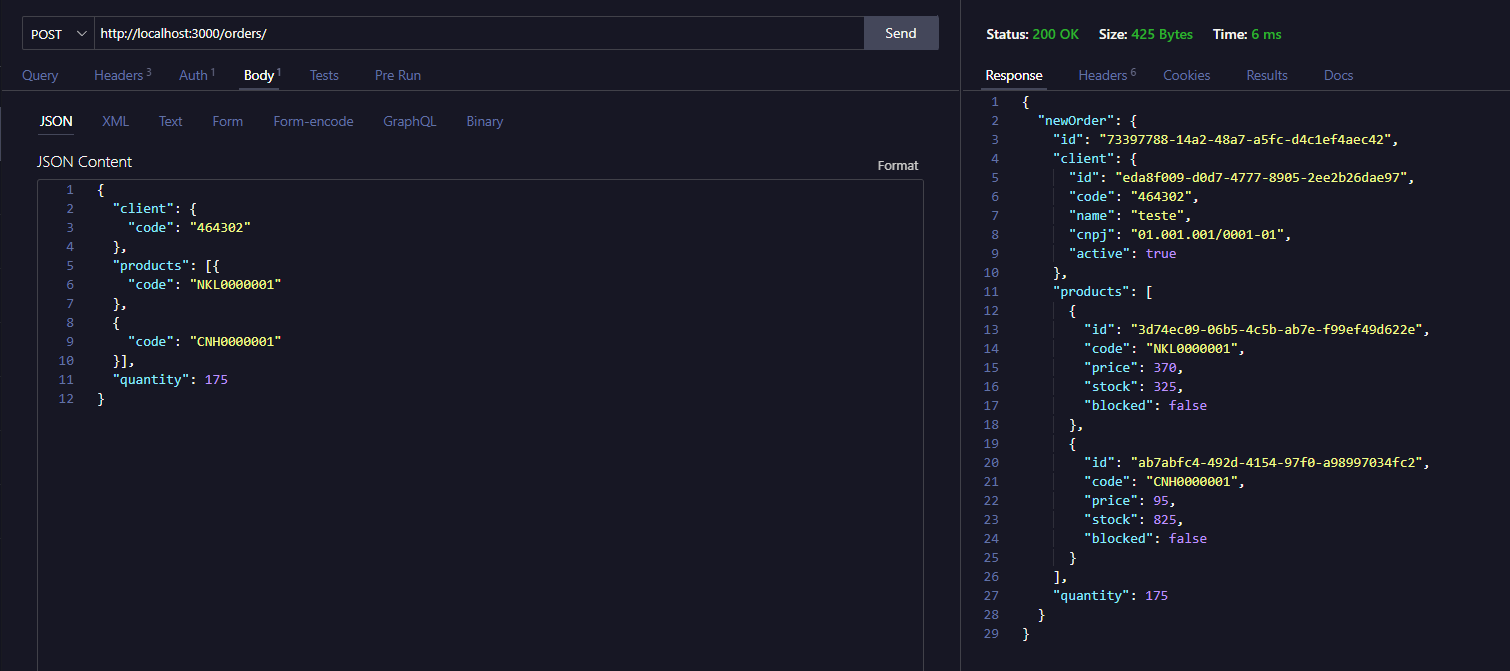
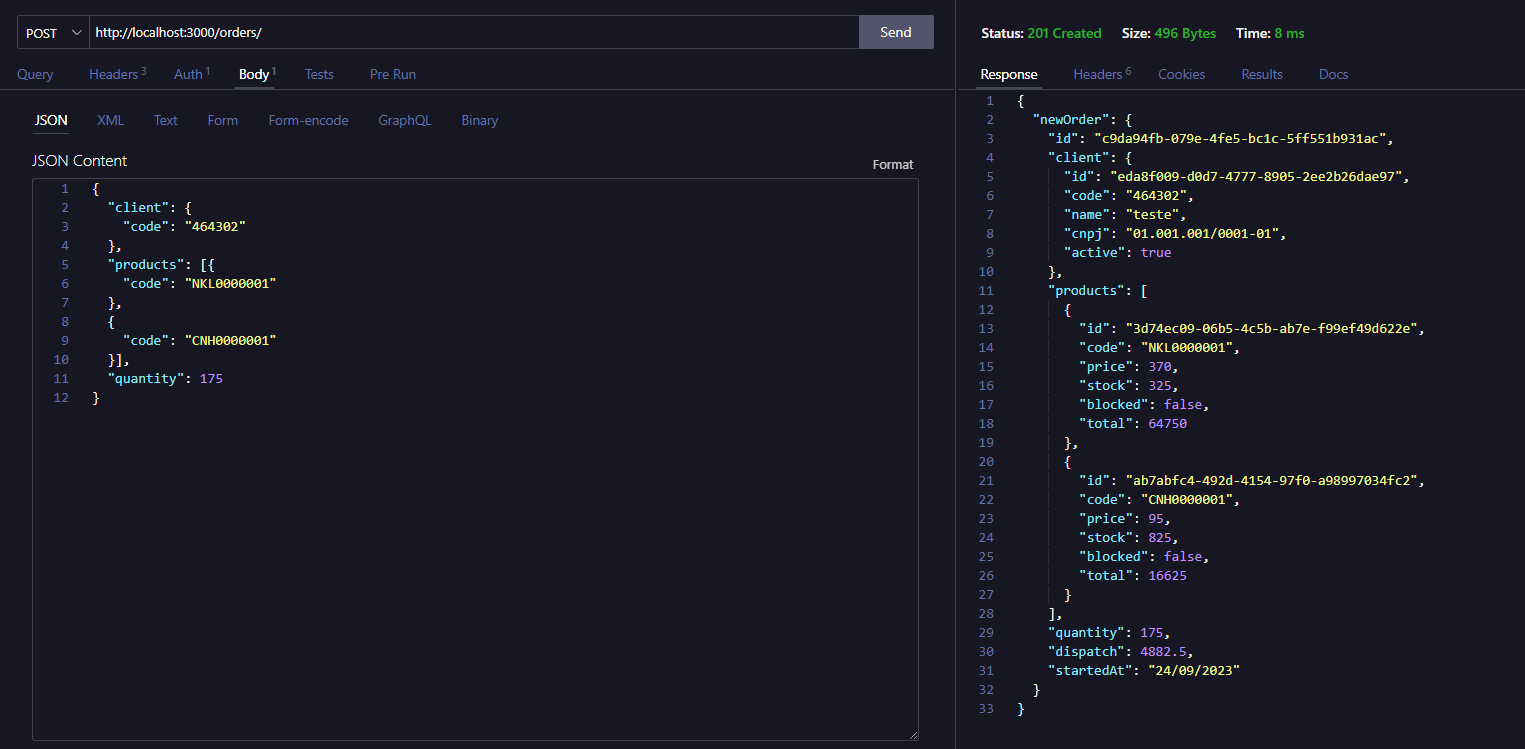
commit_port_v

diff --git a/Express_TDD_API_SalesOrder/src/application/controllers/SalesOrder.controller.ts b/Express_TDD_API_SalesOrder/src/application/controllers/SalesOrder.controller.ts
@@ -4,6 +4,8 @@ import { ClientRepository } from '../repositories/ClientRepository'
 import { ProductRepository } from '../repositories/ProductRepository'
 import { Product } from '../../domain/entities/Product'
 import { SalesOrder } from '../../domain/entities/SalesOrder'
+import { StartSalesOrder } from '../useCases/StartSalesOrder'
+import { salesOrderRepository } from '../repositories'
 
 export class SalesOrderController {
     constructor(
@@ -45,7 +47,9 @@ export class SalesOrderController {
                 quantity,
             }
 
-            const { props: newOrder } = await this.repository.add(salesOrder)
+            const startSaleOrder = new StartSalesOrder(salesOrderRepository)
+            const { props: newOrder } = await startSaleOrder.execute(salesOrder)
+
             return res.status(201).json({ newOrder })
         } catch (err) {
             res.status(400).json({ error: err.message })

diff --git a/Express_TDD_API_SalesOrder/src/application/useCases/StartSalesOrder.ts b/Express_TDD_API_SalesOrder/src/application/useCases/StartSalesOrder.ts
@@ -10,19 +10,19 @@ export class StartSalesOrder {
 
     async execute(order: SalesOrder) {
         const calculateTotal = new CalculateTotal()
-        const total = calculateTotal.execute(order)
+        const products = await calculateTotal.execute(order)
 
         const calculateDispatch = new CalculateDispatch()
-        const dispatch = calculateDispatch.execute(order.products)
+        const dispatch = await calculateDispatch.execute(order.products)
 
-        const newOrder: SalesOrder = new SalesOrder({
+        const newOrder = new SalesOrder({
             ...order,
+            products,
             dispatch,
-            total,
             startedAt: new Date().toLocaleDateString('pt-br'),
         })
 
-        const { props: newOrderProps } = await this.repository.add(newOrder)
+        const newOrderProps = await this.repository.add(newOrder.props)
         return newOrderProps
     }
 }

diff --git a/Express_TDD_API_SalesOrder/src/application/useCases/CalculateTotal.ts b/Express_TDD_API_SalesOrder/src/application/useCases/CalculateTotal.ts
@@ -1,10 +1,17 @@
-import { Product } from '../../domain/entities/Product'
 import { SalesOrder } from '../../domain/entities/SalesOrder'
 
 export class CalculateTotal {
     execute(order: SalesOrder) {
-        const { quantity, products: { price } } = order
+        const { quantity, products } = order
 
-        return quantity * price
+        if (products.length) {
+            for (const prod of products) {
+                prod.total = +prod.price * +quantity
+            }
+            return products
+        }
+
+        products.total = +products.price * +quantity
+        return products
     }
 }

diff --git a/Express_TDD_API_SalesOrder/src/application/useCases/CalculateDispatch.ts b/Express_TDD_API_SalesOrder/src/application/useCases/CalculateDispatch.ts
@@ -1,8 +1,17 @@
 import { Product } from '../../domain/entities/Product'
 
 export class CalculateDispatch {
-    execute({ price }: Partial<Product>) {
+    execute(products: Product | Product[]) {
         const tax = 0.06
-        return +price * tax
+
+        if (products.length) {
+            let sum = 0
+            for (const prod of products) {
+                sum += prod.total
+            }
+            return +sum * tax
+        }
+
+        return +products.price * tax
     }
 }

diff --git a/Express_TDD_API_SalesOrder/src/domain/entities/SalesOrder.ts b/Express_TDD_API_SalesOrder/src/domain/entities/SalesOrder.ts
@@ -7,7 +7,6 @@ type SalesOrderType = {
     products: Product | Product[]
     quantity: number
     dispatch?: number
-    total?: number
     startedAt?: Date
 }
 

diff --git a/Express_TDD_API_SalesOrder/src/domain/entities/Product.ts b/Express_TDD_API_SalesOrder/src/domain/entities/Product.ts
@@ -5,6 +5,7 @@ type ProductType = {
     code: string
     price: number
     stock: number
+    total?: number
     blocked: boolean
 }
 
